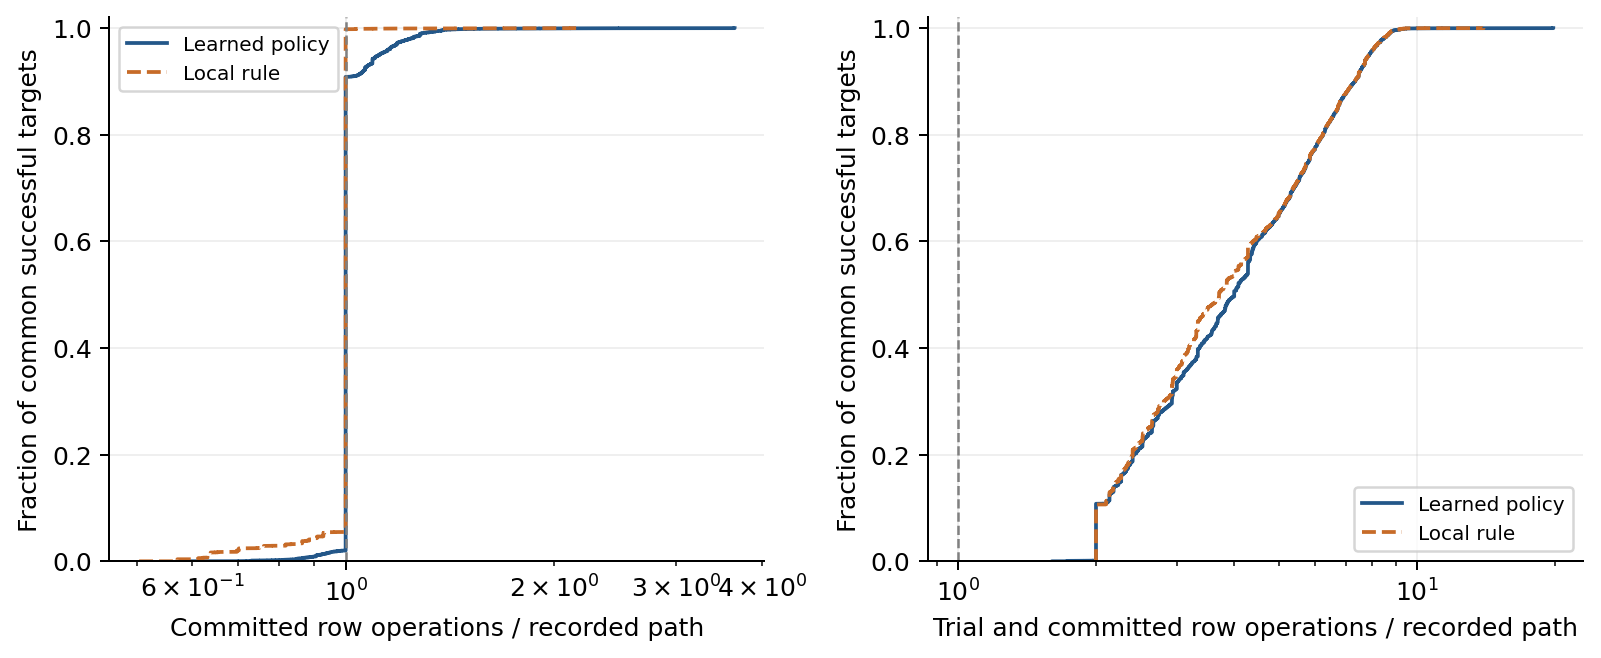
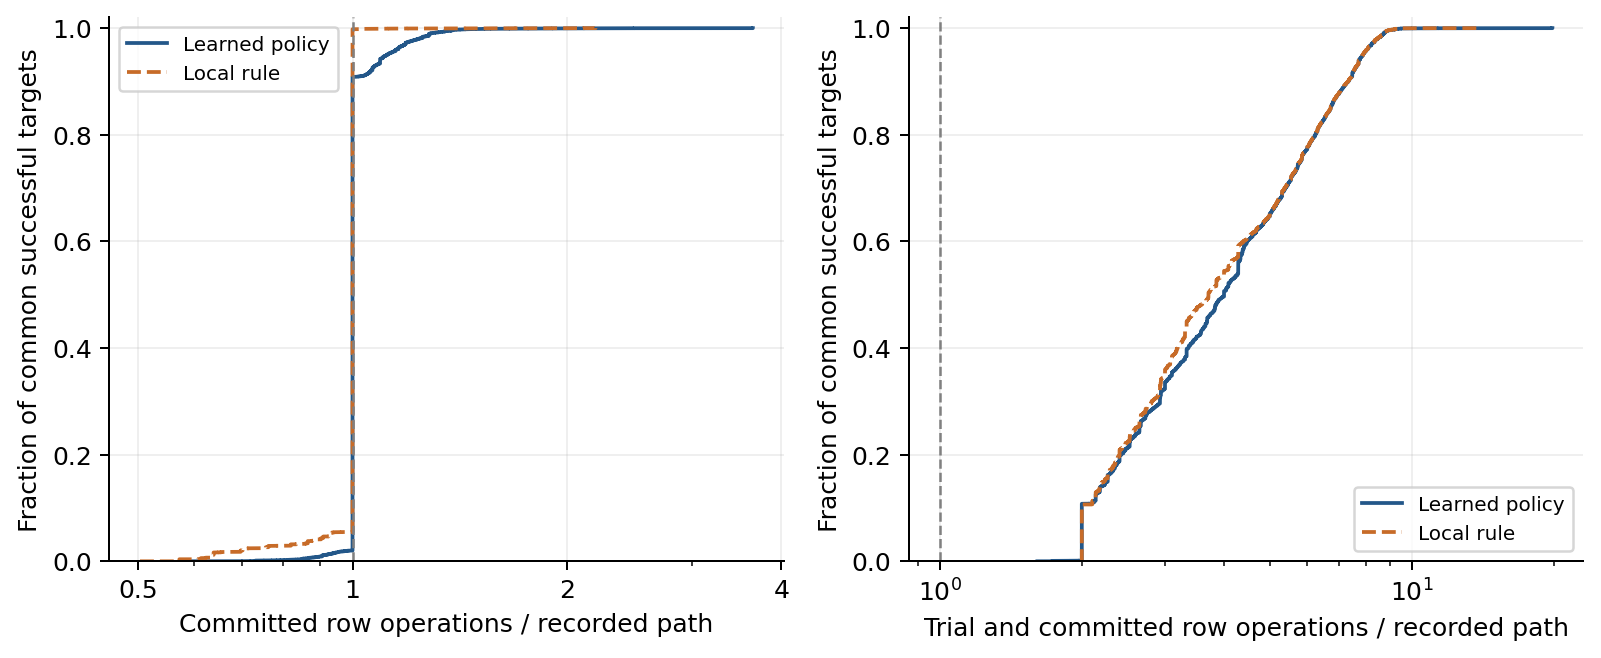
Clarify operation-count plot labels and preserve checked test measurements

diff --git a/integrals/higher_loops/s12_finalize_tests.py b/integrals/higher_loops/s12_finalize_tests.py
@@ -53,7 +53,7 @@ def main():
    files=("families/ stores probability arrays and complete model/comparison paths. test_results.json, family_metrics.json, "
     "paired_comparison.json, tie_metrics.json and target_metrics.jsonl.gz provide measured results. "
     "s00_test_common.py and s01_policies.py define the fixed protocol; s02_evaluate.py runs it. "
-    "s03_check_metrics.py checks metric formulas, s04_run_test.sh runs the bounded workflow, "
+    "s03_check_metrics.py checks metric formulas, s04_run_test.sh runs the bounded workflow and accepts --plots-only to redraw checked results, "
     "s05_validate_outputs.py independently replays saved paths and probabilities, s06_plot_results.py draws the six plots, "
     "s07_update_report.py renders the scientific sections, s09_validate_checkpoint.py checks the frozen twenty-pass weights, and s10_parallel_test.py runs four disjoint family groups on one compute node before aggregation.\n\n")
    figures=read(test/"figure_manifest.json")["figures"]

diff --git a/ML_model_reduction/model_test/s06_plot_results.py b/ML_model_reduction/model_test/s06_plot_results.py
@@ -65,6 +65,10 @@ def main():
     for ax in axes:
         ax.axvline(1,color="gray",ls="--",lw=1);ax.set_xscale("log")
         ax.set(ylabel="Fraction of common successful targets",ylim=(0,1.02));ax.grid(alpha=.2);ax.legend(fontsize=8)
+    from matplotlib.ticker import FixedLocator, FuncFormatter, NullFormatter
+    axes[0].xaxis.set_major_locator(FixedLocator([0.5,1,2,4]))
+    axes[0].xaxis.set_major_formatter(FuncFormatter(lambda value,position:format(value,"g")))
+    for ax in axes:ax.xaxis.set_minor_formatter(NullFormatter())
     axes[0].set_xlabel("Committed row operations / recorded path")
     axes[1].set_xlabel("Trial and committed row operations / recorded path")
     save(fig,"reduction_operation_counts")

diff --git a/ML_model_reduction/model_test/report_template.tex b/ML_model_reduction/model_test/report_template.tex
@@ -164,7 +164,7 @@ that this count is minimal.
  \caption{Cumulative distributions of arithmetic counts relative
  to the recorded path, restricted to targets successful for both
  policies. The right panel also includes trial row operations used
- when choosing an action.}
+ when choosing an action. Both horizontal axes use logarithmic scales.}
  \label{fig:reduction-operations}
 \end{figure}
 

diff --git a/ML_model_reduction/model_test/README.md b/ML_model_reduction/model_test/README.md
@@ -2,7 +2,7 @@
 
 The frozen model was tested on all 114,382 targets in 637 held-out families. Recorded-action top-one agreement on choice states is 88.324263%; top-three agreement is 98.819872%. Averaging credit over highest-scoring ties gives 83.699677% agreement; the tied fraction is 11.184840%. The selected action gives the same next sampled row in 88.336112% of choice states. The learned policy matches all three sampled master expansions for 114,179 targets, and the local comparison rule does so for 113,703. Mean attempted reduction times are 10.162832 ms and 0.534528 ms, respectively.
 
-families/ stores probability arrays and complete model/comparison paths. test_results.json, family_metrics.json, paired_comparison.json, tie_metrics.json and target_metrics.jsonl.gz provide measured results. s00_test_common.py and s01_policies.py define the fixed protocol; s02_evaluate.py runs it. s03_check_metrics.py checks metric formulas, s04_run_test.sh runs the bounded workflow, s05_validate_outputs.py independently replays saved paths and probabilities, s06_plot_results.py draws the six plots, s07_update_report.py renders the scientific sections, s09_validate_checkpoint.py checks the frozen twenty-pass weights, and s10_parallel_test.py runs four disjoint family groups on one compute node before aggregation.
+families/ stores probability arrays and complete model/comparison paths. test_results.json, family_metrics.json, paired_comparison.json, tie_metrics.json and target_metrics.jsonl.gz provide measured results. s00_test_common.py and s01_policies.py define the fixed protocol; s02_evaluate.py runs it. s03_check_metrics.py checks metric formulas, s04_run_test.sh runs the bounded workflow and accepts --plots-only to redraw checked results, s05_validate_outputs.py independently replays saved paths and probabilities, s06_plot_results.py draws the six plots, s07_update_report.py renders the scientific sections, s09_validate_checkpoint.py checks the frozen twenty-pass weights, and s10_parallel_test.py runs four disjoint family groups on one compute node before aggregation.
 
 figures/ contains six PDF plots and PNG previews. validation.json records independent checks. archive_before_all_loops/ retains the previous tests and their source.
 
